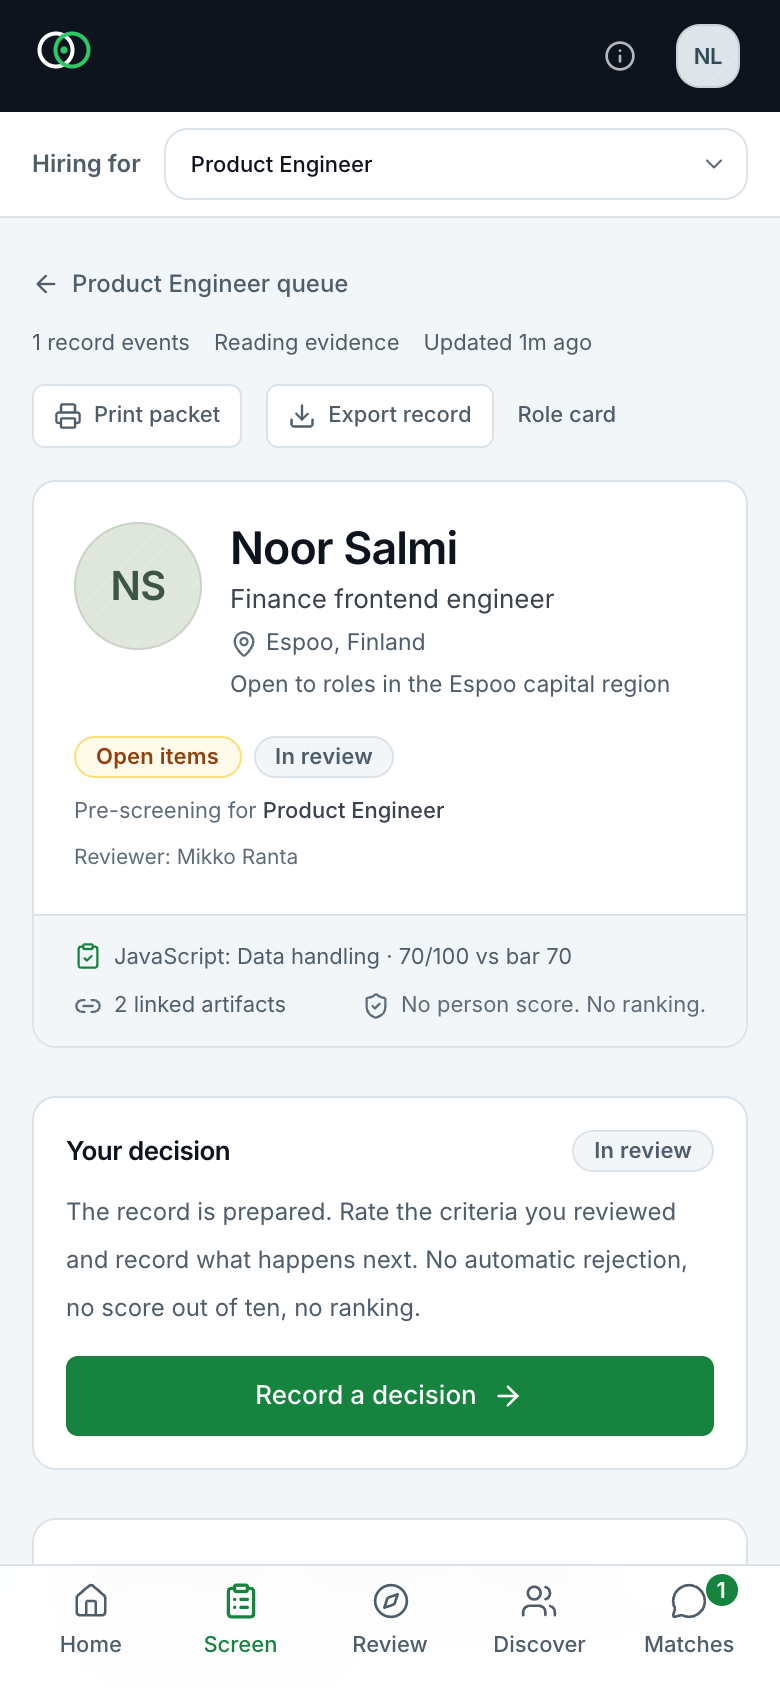
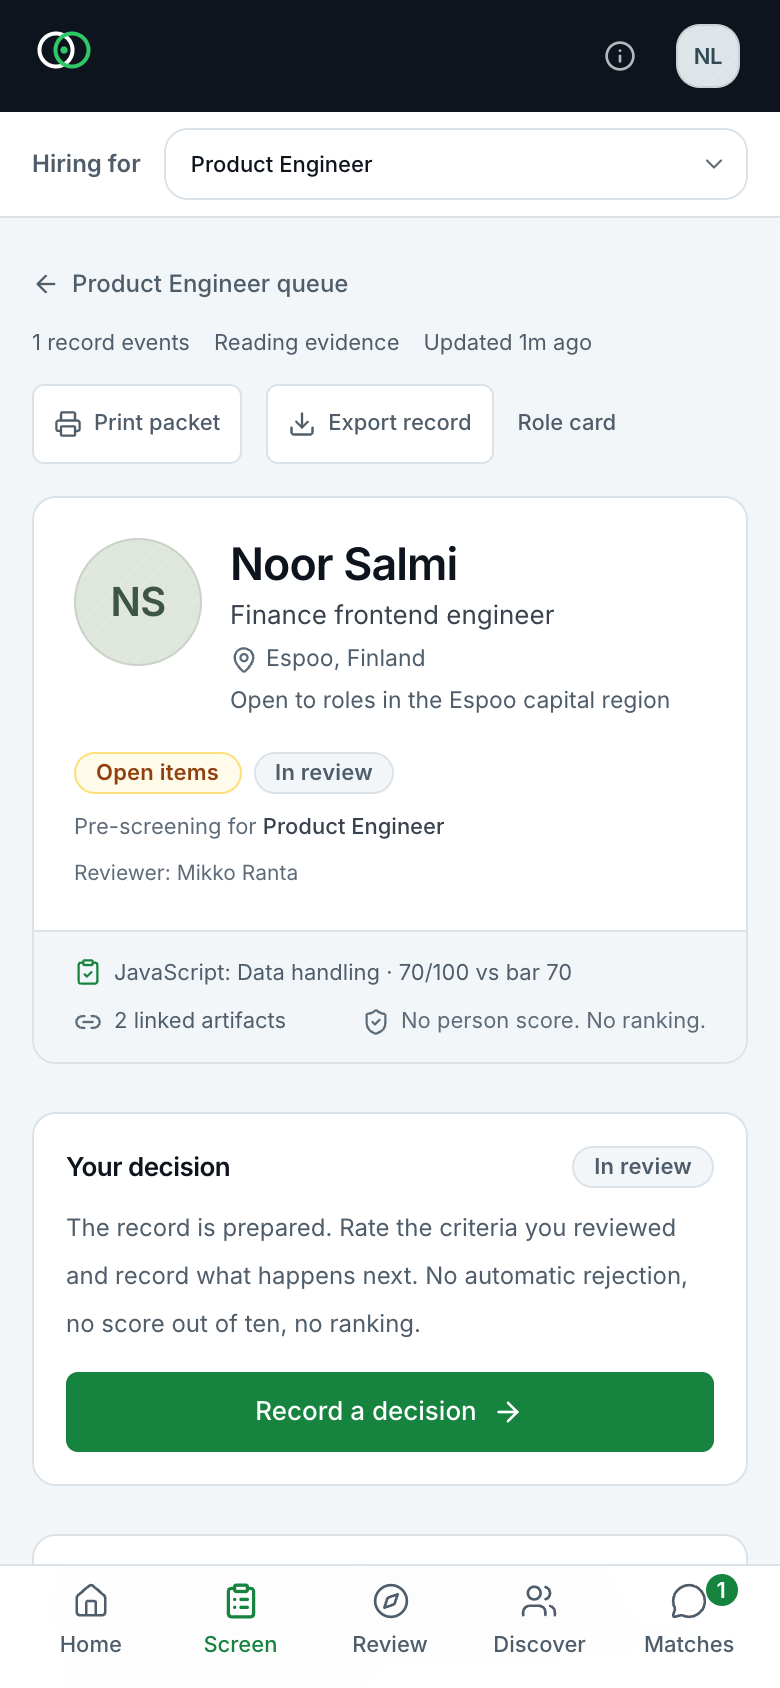
feat: add queue reply targets and a repeatable accessibility audit

diff --git a/recruitment-app/src/components/screening/plan-editor.tsx b/recruitment-app/src/components/screening/plan-editor.tsx
@@ -94,7 +94,7 @@ export function PlanEditor({ roleId, initialPlan }: { roleId: string; initialPla
           setErrors([]);
           setOpen(true);
         }}
-        className="inline-flex h-8 items-center gap-1.5 rounded-md border border-line bg-surface px-2.5 text-[11px] font-medium text-ink-muted transition hover:border-line-strong hover:text-ink"
+        className="inline-flex h-10 items-center gap-1.5 rounded-md border border-line bg-surface px-2.5 text-[11px] font-medium text-ink-muted transition hover:border-line-strong hover:text-ink sm:h-8"
       >
         <Settings2 className="h-3.5 w-3.5" aria-hidden /> Edit plan
       </button>
@@ -120,7 +120,7 @@ export function PlanEditor({ roleId, initialPlan }: { roleId: string; initialPla
                     type="button"
                     onClick={() => setCriteria((current) => current.filter((entry) => entry.id !== criterion.id))}
                     disabled={criteria.length <= 1}
-                    className="inline-flex h-7 items-center gap-1 rounded px-1.5 text-[10.5px] font-medium text-ink-muted hover:text-rose-700 disabled:opacity-40"
+                    className="inline-flex h-9 items-center gap-1 rounded px-2 text-[10.5px] font-medium text-ink-muted hover:text-rose-700 disabled:opacity-40 sm:h-7"
                   >
                     <Trash2 className="h-3 w-3" aria-hidden /> Remove
                   </button>
@@ -132,7 +132,7 @@ export function PlanEditor({ roleId, initialPlan }: { roleId: string; initialPla
                       value={criterion.label}
                       onChange={(event) => update(criterion.id, { label: event.target.value })}
                       maxLength={160}
-                      className="mt-1 h-9 w-full rounded-md border border-line bg-surface px-2.5 text-[12px] text-ink outline-none focus:border-accent"
+                      className="mt-1 h-10 w-full rounded-md border border-line bg-surface px-2.5 text-[12px] text-ink outline-none focus:border-accent"
                     />
                   </label>
                   <label className="text-[10.5px] font-medium text-ink-muted">
@@ -140,7 +140,7 @@ export function PlanEditor({ roleId, initialPlan }: { roleId: string; initialPla
                     <select
                       value={criterion.kind}
                       onChange={(event) => update(criterion.id, { kind: event.target.value as ScreeningCriterion["kind"] })}
-                      className="mt-1 h-9 w-full rounded-md border border-line bg-surface px-2 text-[12px] text-ink outline-none focus:border-accent"
+                      className="mt-1 h-10 w-full rounded-md border border-line bg-surface px-2 text-[12px] text-ink outline-none focus:border-accent"
                     >
                       {KIND_OPTIONS.map((option) => (
                         <option key={option.value} value={option.value}>
@@ -166,7 +166,7 @@ export function PlanEditor({ roleId, initialPlan }: { roleId: string; initialPla
                     value={criterion.ask}
                     onChange={(event) => update(criterion.id, { ask: event.target.value })}
                     maxLength={240}
-                    className="mt-1 h-9 w-full rounded-md border border-line bg-surface px-2.5 text-[12px] text-ink outline-none focus:border-accent"
+                    className="mt-1 h-10 w-full rounded-md border border-line bg-surface px-2.5 text-[12px] text-ink outline-none focus:border-accent"
                   />
                 </label>
               </div>
@@ -177,7 +177,7 @@ export function PlanEditor({ roleId, initialPlan }: { roleId: string; initialPla
             type="button"
             onClick={() => setCriteria((current) => [...current, newCriterion()])}
             disabled={criteria.length >= 7}
-            className="mt-3 inline-flex h-9 items-center gap-1.5 rounded-md border border-dashed border-line-strong px-3 text-[12px] font-medium text-ink-muted transition hover:border-accent hover:text-accent disabled:opacity-40"
+            className="mt-3 inline-flex h-10 items-center gap-1.5 rounded-md border border-dashed border-line-strong px-3 text-[12px] font-medium text-ink-muted transition hover:border-accent hover:text-accent disabled:opacity-40"
           >
             <Plus className="h-3.5 w-3.5" aria-hidden /> Add a criterion
           </button>

diff --git a/recruitment-app/src/app/(app)/prescreen/[roleId]/page.tsx b/recruitment-app/src/app/(app)/prescreen/[roleId]/page.tsx
@@ -52,6 +52,11 @@ export default async function PrescreenRolePage({ params }: { params: Promise<{ 
       summaryHeadline: item.summary.headline,
       claims: item.claimSummary,
       hasNotes: Boolean(item.run?.notes.length),
+      waitingSince: item.run?.createdAt ?? item.evidence?.lastSubmittedAt ?? null,
+      overdue:
+        (item.run?.status ?? "OPEN") === "OPEN" &&
+        Boolean(item.run?.createdAt ?? item.evidence?.lastSubmittedAt) &&
+        Date.now() - new Date((item.run?.createdAt ?? item.evidence?.lastSubmittedAt)!).getTime() > role.reviewDueHours * 60 * 60 * 1000,
     };
   });
 
@@ -60,6 +65,7 @@ export default async function PrescreenRolePage({ params }: { params: Promise<{ 
   const belowBar = items.filter((item) => item.state === "BELOW").length;
   const ready = openItems.filter((item) => item.summary.state === "ENOUGH_TO_DISCUSS").length;
   const decided = items.filter((item) => item.run && item.run.status !== "OPEN").length;
+  const overdue = views.filter((item) => item.overdue).length;
 
   return (
     <div className="animate-fade-up" data-testid="prescreen-role">
@@ -135,6 +141,12 @@ export default async function PrescreenRolePage({ params }: { params: Promise<{ 
             <ShieldCheck className="mt-0.5 h-3.5 w-3.5 shrink-0 text-amber-700" aria-hidden />
             {belowBar} candidate{belowBar === 1 ? " sits" : "s sit"} below the stated work-sample bar and {belowBar === 1 ? "stays" : "stay"} in
             this queue. A below-bar score is context, not a rejection.
+          </p>
+        ) : null}
+        {overdue > 0 ? (
+          <p className="mt-2 flex items-start gap-2 rounded-md border border-amber-300/70 bg-amber-50 px-3 py-2 text-[11px] leading-5 text-amber-900">
+            <Clock3 className="mt-0.5 h-3.5 w-3.5 shrink-0" aria-hidden />
+            {overdue} open packet{overdue === 1 ? " is" : "s are"} past the {role.reviewDueHours}h reply target. The queue keeps them visible rather than hiding them.
           </p>
         ) : null}
       </section>

diff --git a/recruitment-app/src/components/screening/screening-queue.tsx b/recruitment-app/src/components/screening/screening-queue.tsx
@@ -2,7 +2,7 @@
 
 import { useMemo, useState } from "react";
 import Link from "next/link";
-import { ArrowRight, ClipboardCheck, MessageCircle, Search, ShieldCheck } from "lucide-react";
+import { ArrowRight, ClipboardCheck, Clock3, MessageCircle, Search, ShieldCheck } from "lucide-react";
 import { Avatar } from "@/components/brand/avatar";
 import { EvidenceStateBadge, RunStatusBadge } from "@/components/screening/screening-badges";
 import type {
@@ -11,7 +11,7 @@ import type {
   ScreeningRunStatus as RunStatus,
 } from "@/lib/screening";
 import type { AssessmentFeedState } from "@/lib/repo";
-import { cn } from "@/lib/utils";
+import { cn, formatRelativeTime } from "@/lib/utils";
 
 export interface ScreeningQueueItemView {
   candidateId: string;
@@ -33,6 +33,8 @@ export interface ScreeningQueueItemView {
   summaryHeadline: string;
   claims: ClaimSummary;
   hasNotes: boolean;
+  waitingSince: string | null;
+  overdue: boolean;
 }
 
 type Filter = "all" | "checking" | "ready" | "decided";
@@ -159,6 +161,12 @@ export function ScreeningQueue({ roleId, items }: { roleId: string; items: Scree
                       <MessageCircle className="h-3 w-3 text-ink-faint" aria-hidden />
                       {item.openItems} open check{item.openItems === 1 ? "" : "s"}
                     </span>
+                    {item.waitingSince && runStatusOf(item) === "OPEN" ? (
+                      <span className={cn("inline-flex items-center gap-1", item.overdue ? "font-medium text-amber-800" : "text-ink-faint")}>
+                        <Clock3 className="h-3 w-3" aria-hidden />
+                        {item.overdue ? "Past the review target" : "Waiting " + formatRelativeTime(item.waitingSince)}
+                      </span>
+                    ) : null}
                     {item.hasNotes ? <span className="text-ink-faint">Has reviewer notes</span> : null}
                   </div>
 

diff --git a/recruitment-app/src/app/(app)/prescreen/[roleId]/[candidateId]/page.tsx b/recruitment-app/src/app/(app)/prescreen/[roleId]/[candidateId]/page.tsx
@@ -123,7 +123,7 @@ export default async function ScreeningPacketPage({ params }: { params: Promise<
           <a
             href={"/api/screening/" + role.id + "/" + candidate.id + "/export"}
             download
-            className="inline-flex h-8 items-center gap-1.5 rounded-md border border-line bg-surface px-2.5 text-[11px] font-medium text-ink-muted transition hover:border-line-strong hover:text-ink"
+            className="inline-flex h-10 items-center gap-1.5 rounded-md border border-line bg-surface px-2.5 text-[11px] font-medium text-ink-muted transition hover:border-line-strong hover:text-ink sm:h-8"
           >
             <Download className="h-3.5 w-3.5" aria-hidden /> Export record
           </a>
@@ -464,6 +464,11 @@ export default async function ScreeningPacketPage({ params }: { params: Promise<
                 {claimSummary.context > 0 ? <span>{claimSummary.context} context</span> : null}
               </div>
             </div>
+            {claims.length === 0 ? (
+              <p className="mx-5 mt-4 rounded-md border border-dashed border-line-strong bg-paper px-3 py-4 text-[11.5px] leading-5 text-ink-muted">
+                No claims on this record yet. The work sample is the evidence; ask about the work directly.
+              </p>
+            ) : (
             <div className="mt-4 divide-y divide-line border-t border-line">
               {claims.map((claim) => (
                 <article key={claim.claim.id} className="px-5 py-4">
@@ -532,6 +537,7 @@ export default async function ScreeningPacketPage({ params }: { params: Promise<
                 </article>
               ))}
             </div>
+            )}
           </section>
 
           <section className="rounded-xl border border-line bg-surface p-5" aria-labelledby="notes-heading">

diff --git a/recruitment-app/src/components/screening/print-packet-button.tsx b/recruitment-app/src/components/screening/print-packet-button.tsx
@@ -7,7 +7,7 @@ export function PrintPacketButton() {
     <button
       type="button"
       onClick={() => window.print()}
-      className="inline-flex h-8 items-center gap-1.5 rounded-md border border-line bg-surface px-2.5 text-[11px] font-medium text-ink-muted transition hover:border-line-strong hover:text-ink print:hidden"
+      className="inline-flex h-10 items-center gap-1.5 rounded-md border border-line bg-surface px-2.5 text-[11px] font-medium text-ink-muted transition hover:border-line-strong hover:text-ink sm:h-8 print:hidden"
     >
       <Printer className="h-3.5 w-3.5" aria-hidden /> Print packet
     </button>

diff --git a/recruitment-app/README.md b/recruitment-app/README.md
@@ -64,6 +64,7 @@ Use the sample buttons or sign in with those credentials. You can also create a 
 | **Frozen decisions** | A recorded decision stores the full plan snapshot and version. A later plan edit cannot reword the criteria the reviewer actually decided against; the packet shows the frozen version and warns when the role plan has moved on. |
 | **Portable audit record** | `GET /api/screening/[roleId]/[candidateId]/export` returns the packet, plan snapshot, claim states, decision, notes and audit trail as a JSON download. Employer-only. |
 | **Question-level work sample** | The packet shows each problem's passed/total checks, not the hidden tests. Seeded sittings get synthetic per-problem marks; live sittings store real marks. |
+| **Visible reply target** | The role's review owner and 48h target are shown. Open packets past the target stay in the queue with a warning, not a hidden penalty. |
 | **A conversation kit** | `buildInterviewKit` is deterministic. It asks about open criteria, claims saved for the conversation and work-sample questions with gaps, includes a listen-for and follow-up, and always leaves time for the candidate's questions. |
 | **Exact work samples** | Assessments are versioned, timed or untimed and optionally proctored or in browser lockdown. Every question has equal weight. Hidden answer keys never reach the browser. |
 | **Preference is not evidence** | Facts whose prompt or metadata mark them as preference or availability are `Context`, not claims to check. |
@@ -99,6 +100,7 @@ npm run lint
 npm run build
 npm run dev          # separate terminal
 RIVET_BASE_URL=http://localhost:3000 npm run smoke
+RIVET_BASE_URL=http://localhost:3000 npm run audit:a11y
 RIVET_BASE_URL=http://localhost:3000 npm run screenshots
 npm run seed         # leave a clean demo
 ```
@@ -109,8 +111,8 @@ Current local results:
 - Typecheck and ESLint: clean.
 - Production build: passed.
 - Browser smoke: passed. It now covers the pre-screen desk, role queue, plan editor and versioning, frozen decision snapshot, packet, question-level work sample, claim check, note, human decision, JSON export and an explicit decline outcome, plus the existing candidate/employer flows.
-- Screenshots: regenerated, including the pre-screen desk, queue, plan editor, packet and mobile views.
-- Accessibility checks in the smoke/Playwright pass: no horizontal overflow at 390px, the decision panel appears before the record on mobile, and every interactive control in the packet is keyboard reachable.
+- Screenshots: regenerated, including the pre-screen desk, queue, plan editor, packet, decision, decline outcome and mobile views.
+- `npm run audit:a11y`: passed at 1440px and 390px. It checks one main landmark and one h1 per page, alt attributes, no horizontal overflow, accessible names for every visible control, the skip link as the first keyboard stop, dialog focus/Escape/focus return, and print media hiding chrome while keeping the packet readable.
 
 ## Architecture
 
@@ -118,6 +120,7 @@ Current local results:
 src/app/(app)/prescreen/              desk, role queue and candidate packet
 src/app/api/screening/                claim, note, decision, reopen, plan and export routes
 src/components/screening/             queue, packet controls, decision dialog, plan editor, badges
+scripts/a11y.mjs                      structural accessibility and print audit
 src/lib/screening.ts                  deterministic plan, evaluation, claims, kit, summary, decision guards
 src/lib/repo/                         Prisma repository boundary; no page calls Prisma directly
 prisma/schema.prisma                  Role.screeningPlanJson, ScreeningRun, ScreeningEvent

diff --git a/PRODUCT.md b/PRODUCT.md
@@ -33,7 +33,7 @@ The product never guesses whether a document was written by AI, never keyword-sc
 - **The work sample is exact.** One versioned assessment, one stated bar, one sitting per cycle. A result is never averaged with another version.
 - **The decision belongs to a person.** Rating the criteria, writing a reason and confirming the decision are all required. No model records the decision.
 - **A conversation, not an interrogation.** The kit asks about the work behind the score and the claims without an artifact. It includes a listen-for and a follow-up so two interviewers can compare notes.
-- **No silent bin and no automatic rejection.** Candidates below the bar stay in the queue with their evidence. A decline is internal by default; the reviewer can explicitly send one short, honest candidate outcome, and only then is a message recorded.
+- **No silent bin and no automatic rejection.** Candidates below the bar stay in the queue with their evidence. Open packets past the role's reply target stay visible with a warning. A decline is internal by default; the reviewer can explicitly send one short, honest candidate outcome, and only then is a message recorded.
 - **The record is auditable.** Every claim check, note, decision and reopen appends an event with an author and a time. A recorded decision freezes the criteria it was made against, and the packet can be exported as a JSON audit record.
 
 ## Brand Personality

diff --git a/recruitment-app/HANDOFF.md b/recruitment-app/HANDOFF.md
@@ -47,7 +47,8 @@ All data is synthetic. No real people, employers, assessments, evidence, message
 - `npx vitest run`: **175 passed** across 22 files. 27 new tests cover plan derivation, criterion evaluation, claim contexts, the interview kit (including work-sample gaps and saved claims), the packet summary and decision validation.
 - `npm run build`: passed.
 - `npm run smoke` against the production build: passed. It now covers the pre-screen desk, role queue, plan editor and version increment, frozen decision snapshot, packet, question-level work sample, claim check, note, human decision, export authorization, and a decline that explicitly sends a candidate outcome, alongside all earlier candidate/employer flows.
-- `npm run screenshots`: passed; the suite now includes the pre-screen desk, queue, plan editor, packet and mobile views.
+- `npm run screenshots`: passed; the suite now includes the pre-screen desk, queue, plan editor, packet, decision, decline outcome and mobile views.
+- `npm run audit:a11y`: passed at 1440px and 390px. It checks landmarks, headings, alt attributes, overflow, accessible control names, skip navigation, dialog focus/Escape/focus return, and print media.
 - No horizontal overflow at 390px; no console/page errors or failed requests in the screenshot pass.
 
 ### Still not claimed

diff --git a/DESIGN.md b/DESIGN.md
@@ -55,7 +55,7 @@ components:
   - name: EmptyState
     note: "Dashed neutral frame, serif headline allowed as an editorial moment."
   - name: ScreeningQueue
-    note: "Event-ordered list, never score-ordered. Each row shows the record's evidence state, run status, must-have coverage and open checks. Filters are All / Needs checking / Ready to discuss / Decided."
+    note: "Event-ordered list, never score-ordered. Each row shows the record's evidence state, run status, must-have coverage, open checks and waiting time. Open packets past the role's reply target show an amber marker. Filters are All / Needs checking / Ready to discuss / Decided."
   - name: ClaimCheck
     note: "A claim card with provenance, artifact status and four explicit checks: checked, artifact only, for conversation, not checkable. A note field records what was opened. Preference and availability facts are context, not checks."
   - name: DecisionPanel
